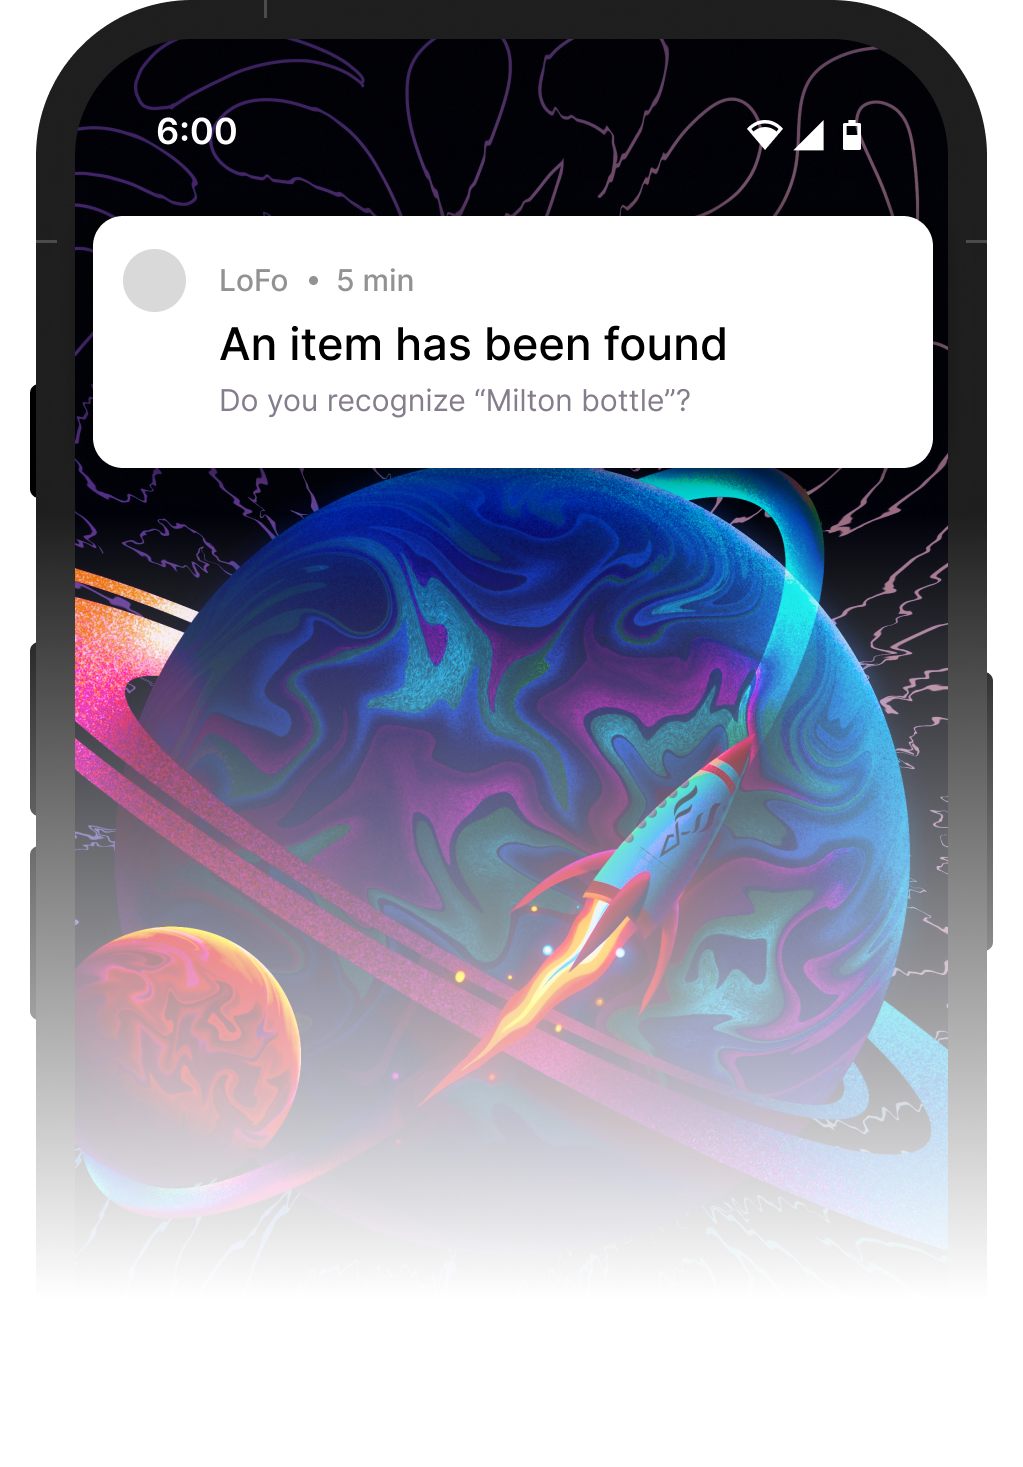
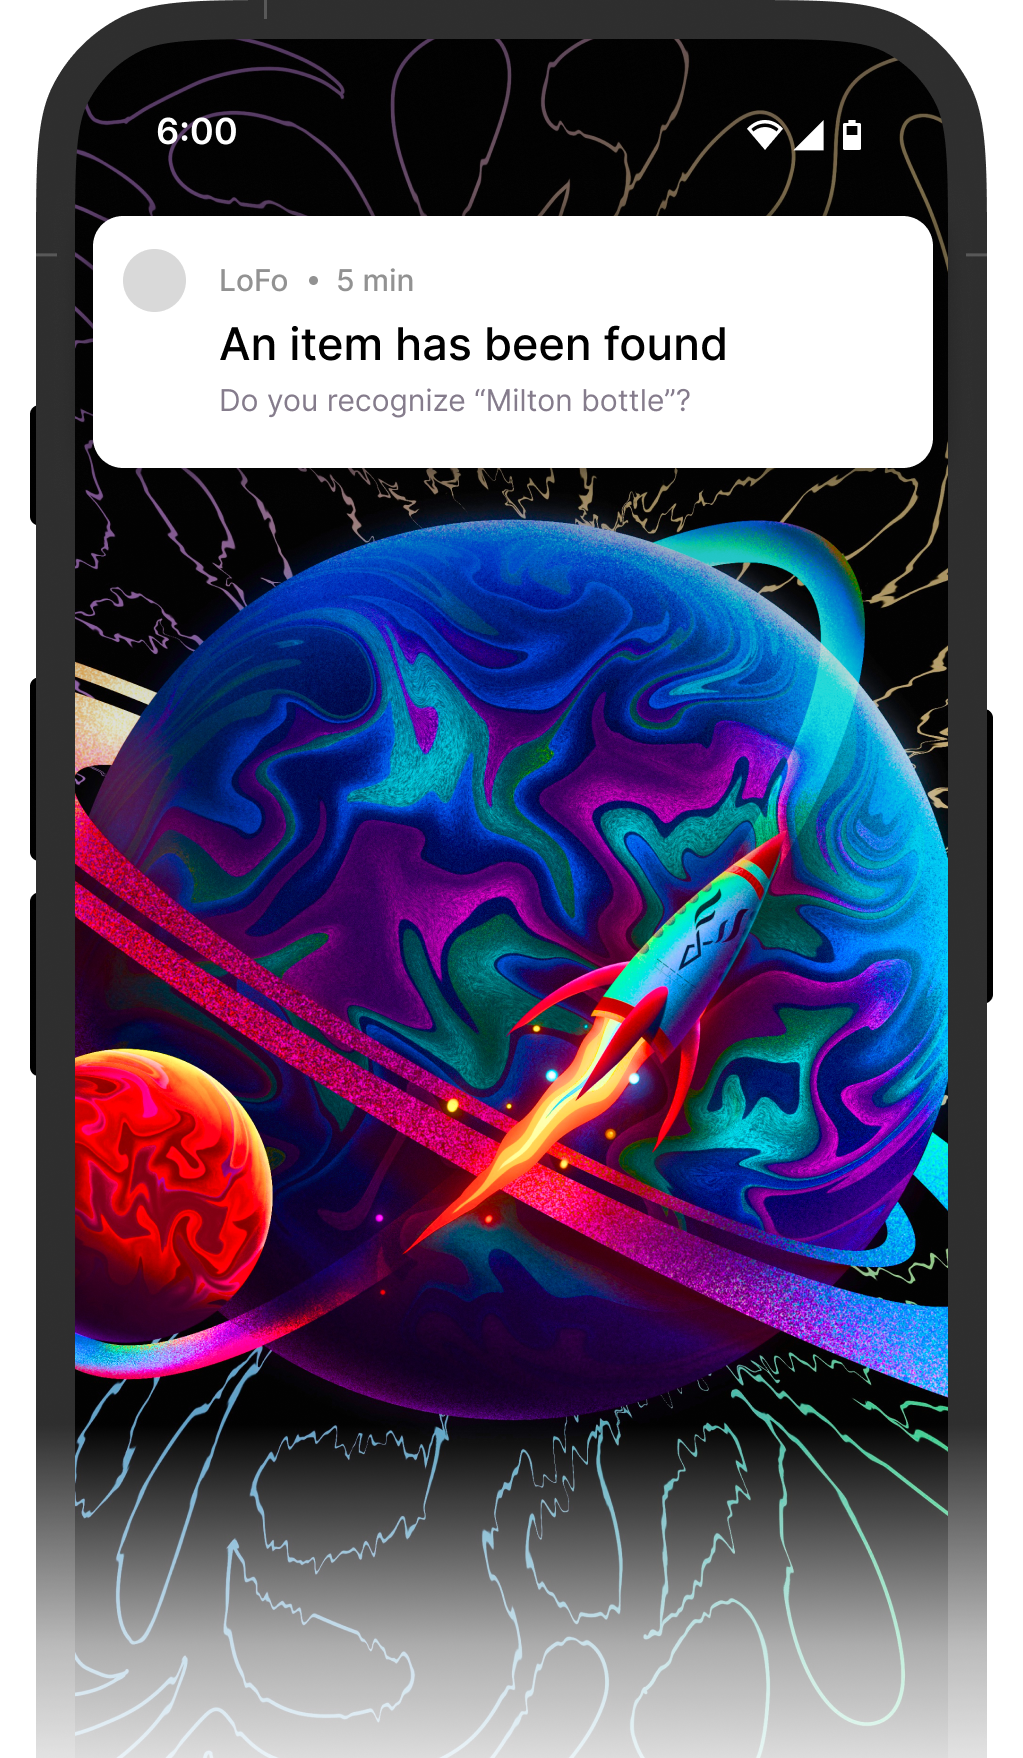
refinements to onboarding screens and login page

diff --git a/lib/onboarding/Page4_notifications.dart b/lib/onboarding/Page4_notifications.dart
@@ -26,7 +26,10 @@ class _Page4NotificationsState extends State<Page4Notifications> {
                 child: Column(
                   mainAxisSize: MainAxisSize.min,
                   children: [
-                    const SizedBox(height: 200),
+                    const SizedBox(height: 230),
+                    const Expanded(
+                      child: SizedBox(),
+                    ),
                     Image.asset('assets/onboarding/Page4noti.png'),
                   ],
                 ),
@@ -43,7 +46,7 @@ class _Page4NotificationsState extends State<Page4Notifications> {
                 Padding(
                   padding: const EdgeInsets.symmetric(horizontal: 15.0),
                   child: Text(
-                    "Get notified about new posts",
+                    "Enable notifications to stay updated",
                     style: TextStyle(
                       fontSize: 35,
                       fontWeight: FontWeight.bold,
@@ -53,18 +56,18 @@ class _Page4NotificationsState extends State<Page4Notifications> {
                     textAlign: TextAlign.center,
                   ),
                 ),
+                // const SizedBox(height: 10),
+                // const Text(
+                //   'Notifications need to first be enabled from the "more" page',
+                //   style: TextStyle(
+                //     color: Colors.white,
+                //     // fontSize: 17,
+                //   ),
+                //   textAlign: TextAlign.center,
+                // ),
                 const Expanded(
                   child: SizedBox(),
                 ),
-                const Text(
-                  'Notifications need to first be enabled from the "more" page',
-                  style: TextStyle(
-                    color: Colors.white,
-                    fontSize: 17,
-                  ),
-                  textAlign: TextAlign.center,
-                ),
-                const SizedBox(height: 40),
                 OnBoardingButton(
                     onPressed: () {
                       hasNotPlayedOnboarding = false;

diff --git a/lib/pages/login_page.dart b/lib/pages/login_page.dart
@@ -62,7 +62,7 @@ class _LoginPageState extends State<LoginPage> {
 
     String informatoryText = loginInformatoryText ??
         'To continue, we need to verify that you belong to Indian Institute of Technology Indore. On the next screen, choose your institute\'s ID. \n \n Your account will be unaffected, and no data will be stored on your account.';
-    String buttonText = loginButtonText ?? 'Verify identity with Google';
+    String buttonText = loginButtonText ?? 'Verify with Google';
 
     return loginPageContent(context, informatoryText, buttonText);
 
@@ -108,8 +108,11 @@ class _LoginPageState extends State<LoginPage> {
           mainAxisAlignment: MainAxisAlignment.center,
           mainAxisSize: MainAxisSize.min,
           children: [
+            const SizedBox(height: 70),
+            const Icon(Icons.account_circle_outlined),
+            const SizedBox(height: 10),
             Text("Let's verify you", style: themeData.textTheme.titleMedium),
-            const SizedBox(height: 50),
+            const Expanded(child: SizedBox(height: 50)),
             // Padding(
             //   padding: const EdgeInsets.symmetric(horizontal: 50.0),
             //   child: BasicTextBox(
@@ -129,7 +132,7 @@ class _LoginPageState extends State<LoginPage> {
                       color: themeData.colorScheme.secondary, fontSize: 16),
                   textAlign: TextAlign.center),
             ),
-            const SizedBox(height: 60),
+            const SizedBox(height: 40),
             Padding(
               padding: const EdgeInsets.symmetric(horizontal: 50.0),
               child: Hero(
@@ -149,6 +152,7 @@ class _LoginPageState extends State<LoginPage> {
                 }),
               ),
             ),
+            const SizedBox(height: 66),
           ],
         ),
       ),

diff --git a/lib/onboarding/hi_there.dart b/lib/onboarding/hi_there.dart
@@ -18,15 +18,18 @@ class HiThere extends StatelessWidget {
           mainAxisSize: MainAxisSize.min,
           crossAxisAlignment: CrossAxisAlignment.center,
           children: [
+            const SizedBox(height: 150),
             Text("Hi there!",
                 style: themeData.textTheme.titleMedium
-                    ?.copyWith(color: themeData.colorScheme.onSurface)),
-            const SizedBox(height: 300),
+                    ?.copyWith(color: themeData.colorScheme.primary)),
+            const Expanded(child: SizedBox()),
             Text(
               "Lets take a quick tour",
-              style: themeData.textTheme.bodyLarge,
+              style: themeData.textTheme.bodyLarge?.copyWith(
+                color: themeData.colorScheme.secondary,
+              ),
             ),
-            const SizedBox(height: 60),
+            const SizedBox(height: 40),
             OnBoardingButton(
               buttonText: "Continue",
               onPressed: () {
@@ -47,6 +50,7 @@ class HiThere extends StatelessWidget {
                     ));
               },
             ),
+            const SizedBox(height: 66),
           ],
         ),
       ),
